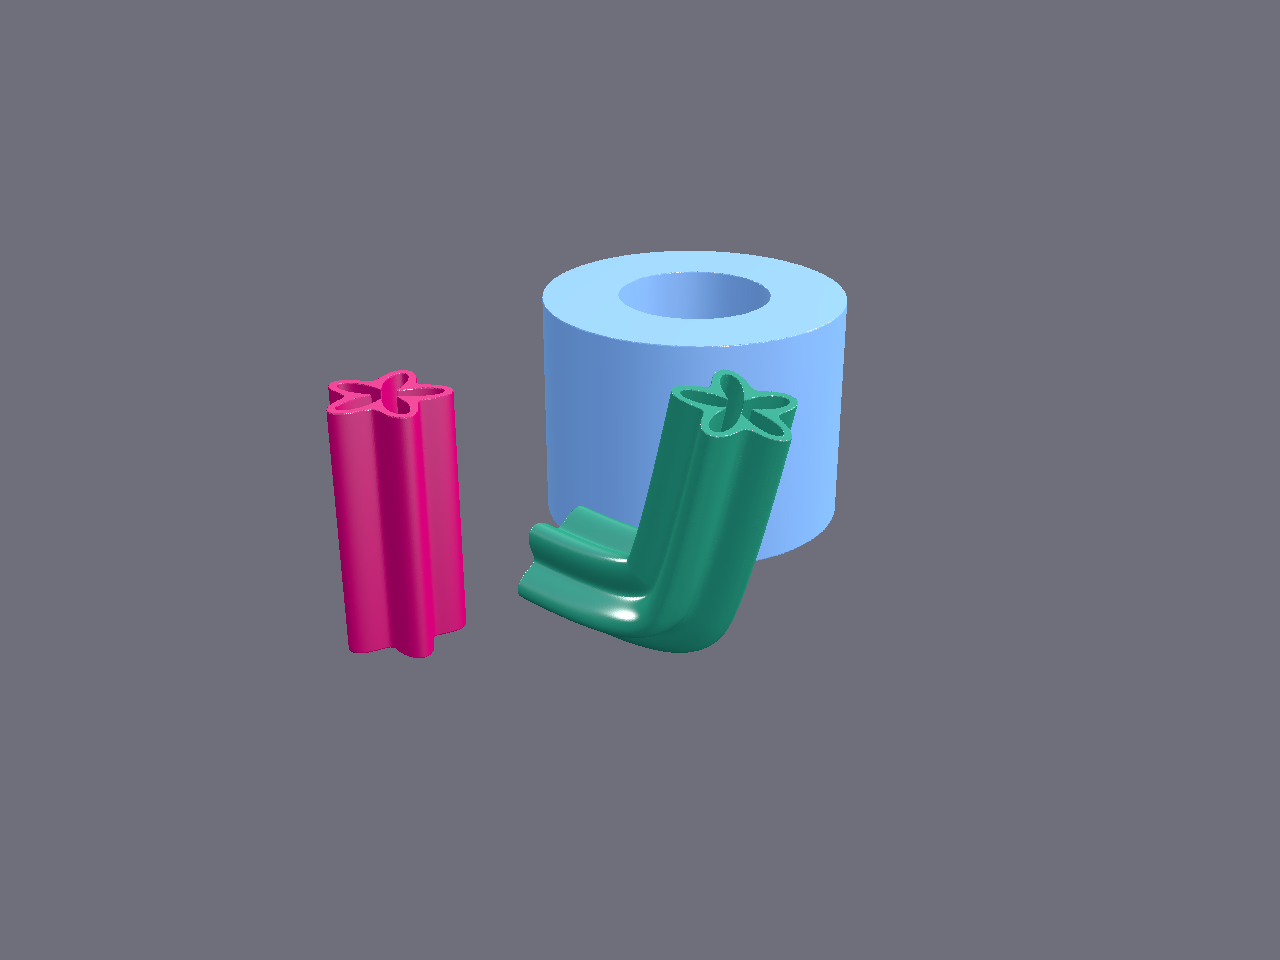
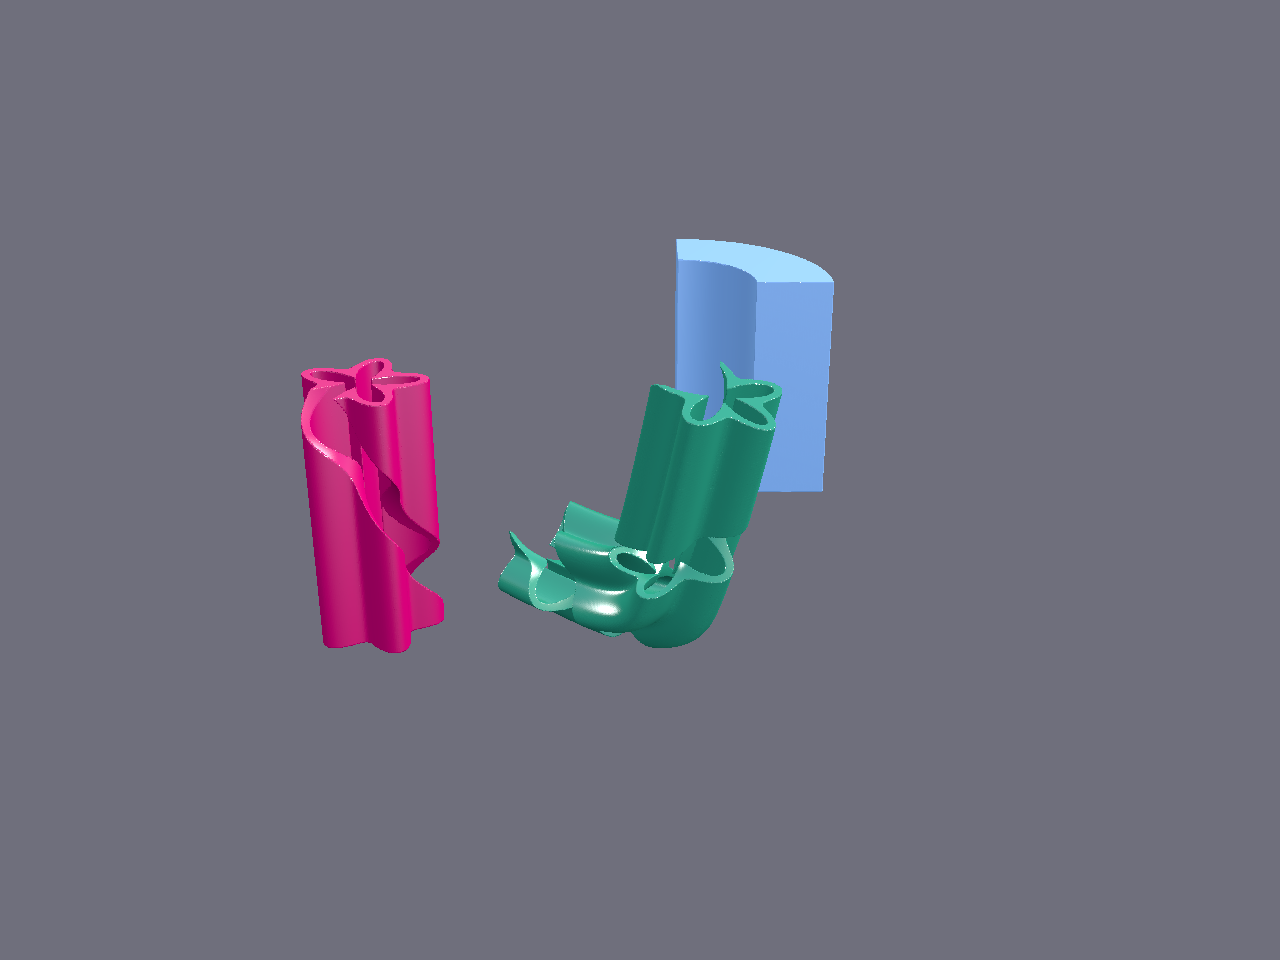
Fix pipe_segment example

Changed region(s): [[0.2188, 0.25, 0.6875, 0.6875]]

diff --git a/sdk/go/picogkshapes/shapes.go b/sdk/go/picogkshapes/shapes.go
@@ -604,18 +604,22 @@ type Pipe struct {
 	polarSteps  int
 	radialSteps int
 	lengthSteps int
+	// phiAngleFunc is the angle function for this pipe.
+	// Pipe uses 2*pi*phiRatio; PipeSegment overrides with mid+(phiRatio-0.5)*range.
+	phiAngleFunc func(phiRatio, lr float64) float64
 }
 
 // NewPipe creates a pipe. innerRadius/outerRadius can be float64 or func(phi,lr float64) float64.
 func NewPipe(frame *LocalFrame, length, innerRadius, outerRadius any, opts ...PipeOpt) *Pipe {
 	p := &Pipe{
-		frame:       frame,
-		length:      toFloat(length),
-		inner:       NewSurfaceModulation(innerRadius),
-		outer:       NewSurfaceModulation(outerRadius),
-		polarSteps:  360,
-		radialSteps: 5,
-		lengthSteps: 5,
+		frame:        frame,
+		length:       toFloat(length),
+		inner:        NewSurfaceModulation(innerRadius),
+		outer:        NewSurfaceModulation(outerRadius),
+		polarSteps:   360,
+		radialSteps:  5,
+		lengthSteps:  5,
+		phiAngleFunc: func(phiRatio, lr float64) float64 { return 2 * math.Pi * phiRatio },
 	}
 	if frame == nil {
 		p.frame = NewLocalFrame(V(0, 0, 0))
@@ -655,72 +659,83 @@ func (p *Pipe) pipeSpine(lr float64) (Vec3, Vec3, Vec3) {
 	return pos, p.frame.LocalX, p.frame.LocalY
 }
 
-func (p *Pipe) phiAngle(phiRatio, lr float64) float64 {
-	return 2 * math.Pi * phiRatio
-}
-
 func (p *Pipe) pipeSurface(lrs, phiRs, radRs []float64) [][]Vec3 {
-	// Broadcast: grid is (len(lrs) or len(phiRs), max of the other two)
-	// Following the Python pattern: lrs varies on axis0 if len>1,
-	// phiRs varies on axis1 if len>1.
-	nl := len(lrs)
-	np := len(phiRs)
-	nr := len(radRs)
-	// Determine grid shape
-	r0, r1 := 1, 1
-	if nl > 1 {
-		r0 = nl
-	}
+	// Match Python's NumPy broadcasting exactly:
+	// Top/bottom cap: _surface(lr_scalar, p[:,None], rr[None,:]) → grid (polar, radial)
+	//   phi on axis0, rad on axis1, lr scalar
+	// Inner/outer mantle: _surface(lr[None,:], p[:,None], 0.0) → grid (polar, length)
+	//   phi on axis0, lr on axis1, rad scalar
+	// Segment start/end cap: _surface(lr[:,None], 0.0, rr[None,:]) → grid (length, radial)
+	//   lr on axis0, rad on axis1, phi scalar
+	//
+	// Rule: phi ALWAYS goes on axis0 (via p[:,None]).
+	// lr goes on axis1 for mantles (via lr[None,:]) or axis0 for segment caps (via lr[:,None]).
+	// rad goes on axis1 for caps (via rr[None,:]).
+	//
+	// We determine the axis assignment by the "which array varies" heuristic:
+	// - If phi varies (len>1) AND lr varies (len>1): phi=axis0, lr=axis1 (mantle case)
+	// - If phi varies AND rad varies: phi=axis0, rad=axis1 (top/bottom cap case)
+	// - If lr varies AND rad varies: lr=axis0, rad=axis1 (segment cap case)
+	// - If only one varies: that one = axis0, axis1=1
+	nl, np, nr := len(lrs), len(phiRs), len(radRs)
+
+	var r0, r1 int = 1, 1
+	var lrAxis, phiAxis, radAxis int = -1, -1, -1 // -1 = scalar, 0 = axis0, 1 = axis1
+
 	if np > 1 && nl > 1 {
-		r1 = np
-	}
-	if np > 1 && nl == 1 {
+		// Mantle: phi=axis0, lr=axis1
+		phiAxis, lrAxis = 0, 1
+		r0, r1 = np, nl
+	} else if np > 1 && nr > 1 {
+		// Top/bottom cap: phi=axis0, rad=axis1
+		phiAxis, radAxis = 0, 1
+		r0, r1 = np, nr
+	} else if nl > 1 && nr > 1 {
+		// Segment cap: lr=axis0, rad=axis1
+		lrAxis, radAxis = 0, 1
+		r0, r1 = nl, nr
+	} else if np > 1 {
+		phiAxis = 0
 		r0 = np
-	}
-	if nr > 1 && nl == 1 && np > 1 {
-		r1 = nr
-	}
-	if nr > 1 && nl > 1 {
-		r1 = nr
-	} // radial on axis1 when lr varies on axis0
-	if nr > 1 && np > 1 && nl == 1 {
+	} else if nl > 1 {
+		lrAxis = 0
+		r0 = nl
+	} else if nr > 1 {
+		radAxis = 0
 		r0 = nr
-	} // radial on axis0 when phi varies on axis1
-	// Actually follow Python broadcasting more carefully:
-	// For top/bottom cap: lr is scalar, p[:,None] is (np,1), rr[None,:] is (1,nr) → grid (np, nr)
-	// For inner/outer mantle: lr[None,:] is (1,nl), p[:,None] is (np,1), radR scalar → grid (np, nl)
-	// For segment start/end cap: lr[:,None] is (nl,1), phiR scalar, rr[None,:] is (1,nr) → grid (nl, nr)
-	r0, r1 = pipeGridShape(lrs, phiRs, radRs)
+	}
 
 	grid := makeGrid(r0, r1)
 	for i := range r0 {
 		for j := range r1 {
-			var lr, phiR, radR float64
-			if nl == 1 {
-				lr = lrs[0]
-			} else if nl > 1 {
-				lr = lrs[min(i, nl-1)]
+			var lrVal, phiVal, radVal float64
+			if lrAxis == 0 {
+				lrVal = lrs[min(i, nl-1)]
+			} else if lrAxis == 1 {
+				lrVal = lrs[min(j, nl-1)]
+			} else {
+				lrVal = lrs[0]
 			}
-			if np == 1 {
-				phiR = phiRs[0]
-			} else if np > 1 {
-				if nl > 1 {
-					phiR = phiRs[min(j, np-1)]
-				} else {
-					phiR = phiRs[min(i, np-1)]
-				}
+			if phiAxis == 0 {
+				phiVal = phiRs[min(i, np-1)]
+			} else if phiAxis == 1 {
+				phiVal = phiRs[min(j, np-1)]
+			} else {
+				phiVal = phiRs[0]
 			}
-			if nr == 1 {
-				radR = radRs[0]
-			} else if nr > 1 {
-				radR = radRs[min(j, nr-1)]
+			if radAxis == 0 {
+				radVal = radRs[min(i, nr-1)]
+			} else if radAxis == 1 {
+				radVal = radRs[min(j, nr-1)]
+			} else {
+				radVal = radRs[0]
 			}
 
-			sp, lx, ly := p.pipeSpine(lr)
-			phi := p.phiAngle(phiR, lr)
-			outer := p.outer.Call(phi, lr)
-			inner := p.inner.Call(phi, lr)
-			radius := radR*(outer-inner) + inner
+			sp, lx, ly := p.pipeSpine(lrVal)
+			phi := p.phiAngleFunc(phiVal, lrVal)
+			outer := p.outer.Call(phi, lrVal)
+			inner := p.inner.Call(phi, lrVal)
+			radius := radVal*(outer-inner) + inner
 			grid[i][j] = sp.Add(lx.Mul(radius * math.Cos(phi))).Add(ly.Mul(radius * math.Sin(phi)))
 		}
 	}
@@ -740,27 +755,6 @@ func (p *Pipe) pipeSurface(lrs, phiRs, radRs []float64) [][]Vec3 {
 		}
 	}
 	return grid
-}
-
-func pipeGridShape(lrs, phiRs, radRs []float64) (int, int) {
-	nl, np, nr := len(lrs), len(phiRs), len(radRs)
-	// Default: each array with len>1 gets its own axis
-	// axis0 = first array with len>1 (priority: lr, then phi, then rad)
-	// axis1 = second array with len>1
-	var axis0, axis1 int = 1, 1
-	assigned := 0
-	for _, n := range []int{nl, np, nr} {
-		if n > 1 {
-			if assigned == 0 {
-				axis0 = n
-				assigned++
-			} else if assigned == 1 {
-				axis1 = n
-				assigned++
-			}
-		}
-	}
-	return axis0, axis1
 }
 
 func (p *Pipe) ToMesh() *picogkffi.Mesh {
@@ -797,18 +791,21 @@ func NewPipeSegment(frame *LocalFrame, length, innerRadius, outerRadius any,
 	a := NewLineModulation(start)
 	b := NewLineModulation(end)
 	ps := &PipeSegment{Pipe: pipe}
+	var mid, rng *LineModulation
 	if method == "start_end" {
-		ps.mid = a.Add(b).Mul(0.5)
-		ps.rng = b.Sub(a)
+		mid = a.Add(b).Mul(0.5)
+		rng = b.Sub(a)
 	} else { // mid_range
-		ps.mid = a
-		ps.rng = b
+		mid = a
+		rng = b
+	}
+	ps.mid = mid
+	ps.rng = rng
+	// Override the angle function so pipeSurface uses the segment's phi
+	ps.phiAngleFunc = func(phiRatio, lr float64) float64 {
+		return mid.Call(lr) + (phiRatio-0.5)*rng.Call(lr)
 	}
 	return ps
-}
-
-func (ps *PipeSegment) phiAngle(phiRatio, lr float64) float64 {
-	return ps.mid.Call(lr) + (phiRatio-0.5)*ps.rng.Call(lr)
 }
 
 func (ps *PipeSegment) ToMesh() *picogkffi.Mesh {
@@ -826,6 +823,10 @@ func (ps *PipeSegment) ToMesh() *picogkffi.Mesh {
 	// Segment end cap (phiR=1, flip)
 	smb.Add(ps.pipeSurface(lr, []float64{1.0}, rr), true)
 	return smb.Build()
+}
+
+func (ps *PipeSegment) ToVoxels() *picogkffi.Voxels {
+	return ToVoxels(ps.ToMesh())
 }
 
 func isConstant(v any) bool {

diff --git a/sdk/go/examples/ffi-gallery/main.go b/sdk/go/examples/ffi-gallery/main.go
@@ -283,7 +283,7 @@ func buildPipe() []SceneGroup {
 func buildPipeSegment() []SceneGroup {
 	p1 := picogkshapes.NewPipeSegment(
 		picogkshapes.NewLocalFrame(picogkshapes.V(-50, 0, 0)), 60, 20, 40,
-		math.Pi, 0.5*math.Pi, "start_end",
+		math.Pi, 0.5*math.Pi, "mid_range",
 		picogkshapes.PipePolarSteps(360),
 	).ToVoxels()
 	p2 := picogkshapes.NewPipeSegment(
